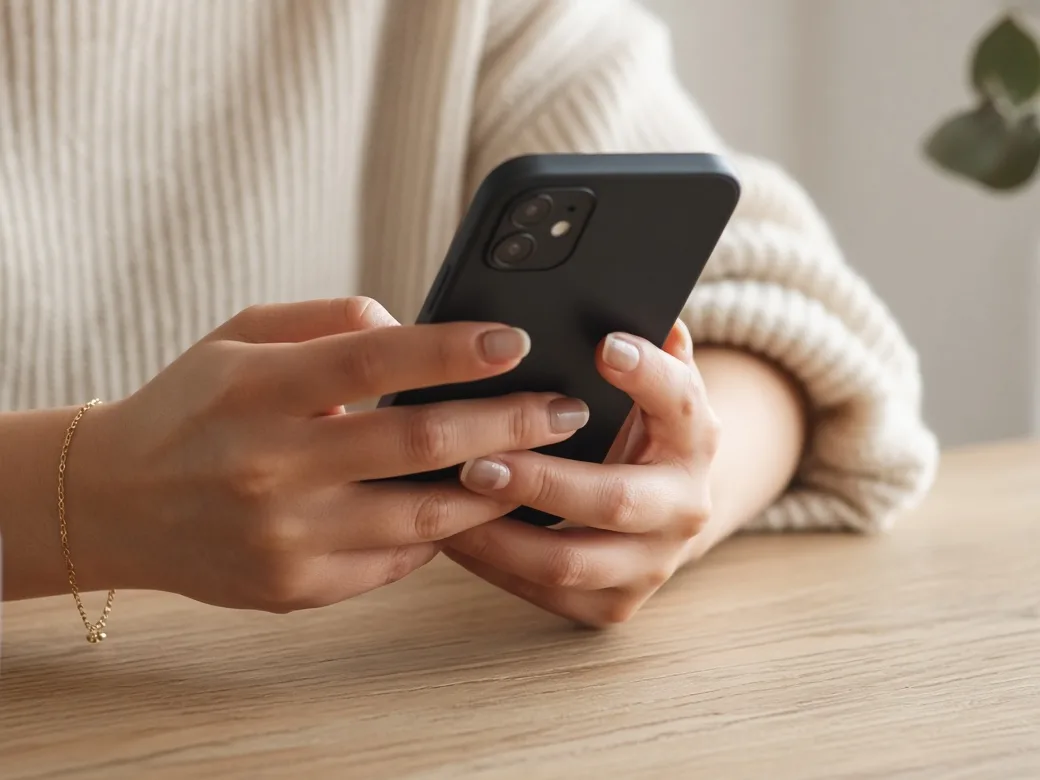
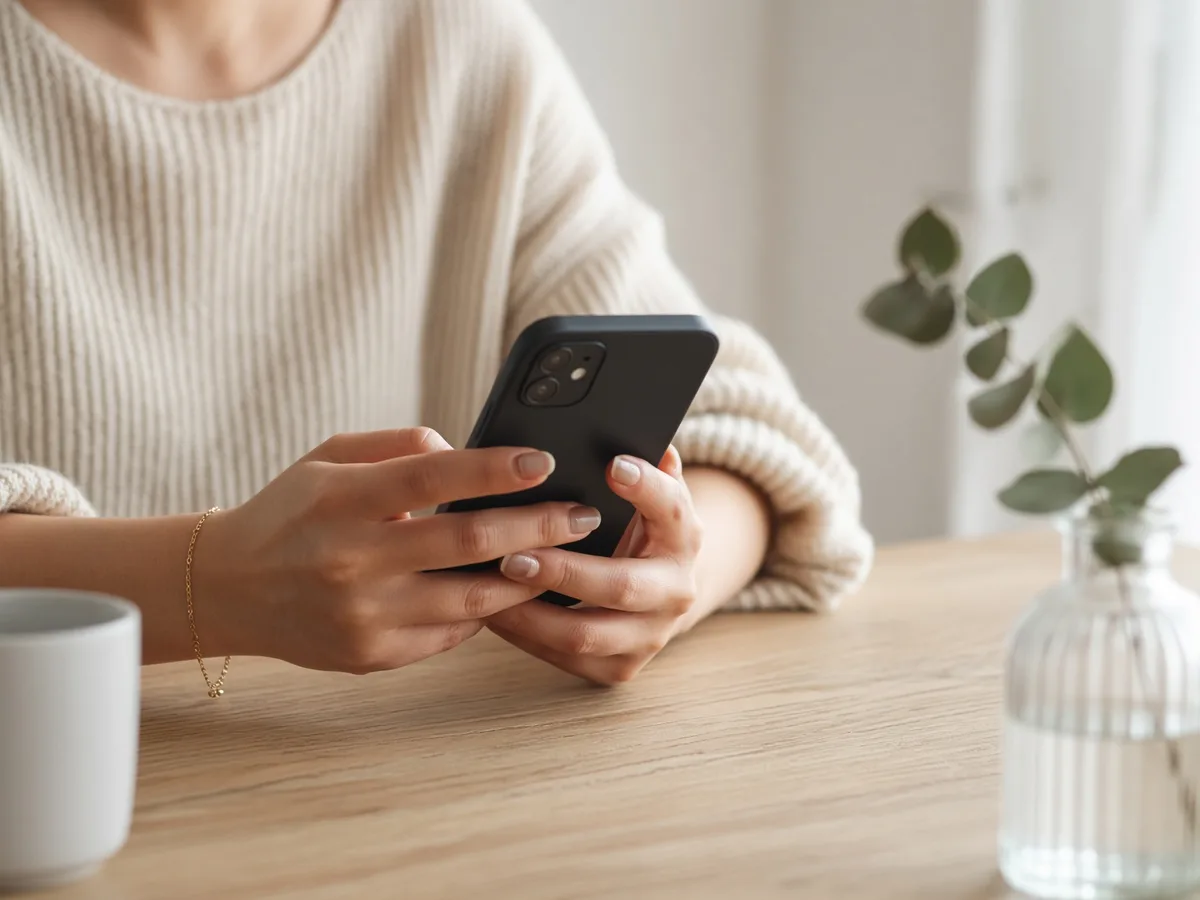
feat: 手順01の写真を引きの構図にして自然な雰囲気に (#77)
* feat: 月15回プランを削除し、最低単価の訴求を¥4,500に修正

ホームページの料金セクションから月15回プラン（¥60,000/月・1回¥4,000）を
削除しました。最安の1回あたり料金が月8回プランの¥4,500になるため、
月15回プランの単価を根拠にしていたサイト全体の「1回¥4,000〜」という訴求を
すべて¥4,500〜に修正しています。提供していない価格を表示したままにすると
景品表示法上の有利誤認にあたるため、表示だけでなく構造化データ・特商法ページ
まで揃えました。

- 料金プラン: 5言語すべてから月15回プランを削除し、「4つのプラン」等の
  プラン数の記載を3つに修正
- PricingSection: 4カラムのグリッドを3カラムに変更（3枚で余白が偏るため）
- 最低単価の訴求 ¥4,000〜 → ¥4,500〜（ヒーロー・特徴・数字・メタディスクリプ
  ション・エリアページ・ブログ記事のCTA）
- index.html: OfferCatalogから月15回プランを削除、priceRangeを
  ¥20,000〜¥36,000/月に、FAQPageのプラン一覧と単価レンジを修正
- 特商法ページ: 販売価格の一覧から月15回プランの行を削除

「個人経営・小規模ジムの相場は1回¥4,000〜¥8,000」という記述は当ジムの
価格ではなく市場相場の説明のため、そのままにしています。

あわせて、プラン表から導かれる訴求（最安単価・プラン数・構造化データ）が
ずれたらテストで落ちるよう src/test/pricing-consistency.test.ts を追加しました。

Claude-Session: https://claude.ai/code/session_012tG2aQBDhvYXvJWbqFuzwR

* feat: 月額プランの料金を改定（新規入会者のみ、既存会員は据え置き）

- 月4回プラン ¥20,000 → ¥24,000（1回あたり ¥6,000）
- 月6回プラン ¥28,500 → ¥33,000（1回あたり ¥5,500）
- 月8回プラン ¥36,000 → ¥40,000（1回あたり ¥5,000）

最安の1回あたり料金が¥4,500から¥5,000に上がるため、サイト全体の
「1回¥4,500〜」の訴求（ヒーロー・特徴・数字・メタ・エリアページ・
ブログ）もすべて¥5,000〜に修正しました。index.html の OfferCatalog・
priceRange・FAQPage、特商法ページの販売価格も新料金に揃えています。

新料金は新規ご入会のお客様のみに適用し、既存会員は改定前の料金のまま
であることを、料金プランの直下（5言語）と特商法ページに明記しました。

市場相場の説明（小規模ジムの相場など）は当ジムの価格ではないため
変更していません。特商法ページの価格がプラン表とずれたら落ちるテストを
追加しました。

Claude-Session: https://claude.ai/code/session_012tG2aQBDhvYXvJWbqFuzwR

* fix: 値上げで不正確になった比較表現とブログ生成スクリプトの料金を修正

- ブログ自動生成スクリプト（scripts/generate-blog-post.mjs）の前提情報が
  「1回¥4,000〜」のまま残っていたため¥5,000〜に修正。これから生成する
[…]

diff --git a/src/components/FlowSection.tsx b/src/components/FlowSection.tsx
@@ -28,8 +28,8 @@ const FlowSection = () => {
                   <img
                     src={image}
                     alt={s.imageAlt ?? ""}
-                    width={1040}
-                    height={780}
+                    width={1200}
+                    height={900}
                     loading="lazy"
                     decoding="async"
                     className="w-full aspect-[4/3] object-cover rounded-2xl mb-6"
